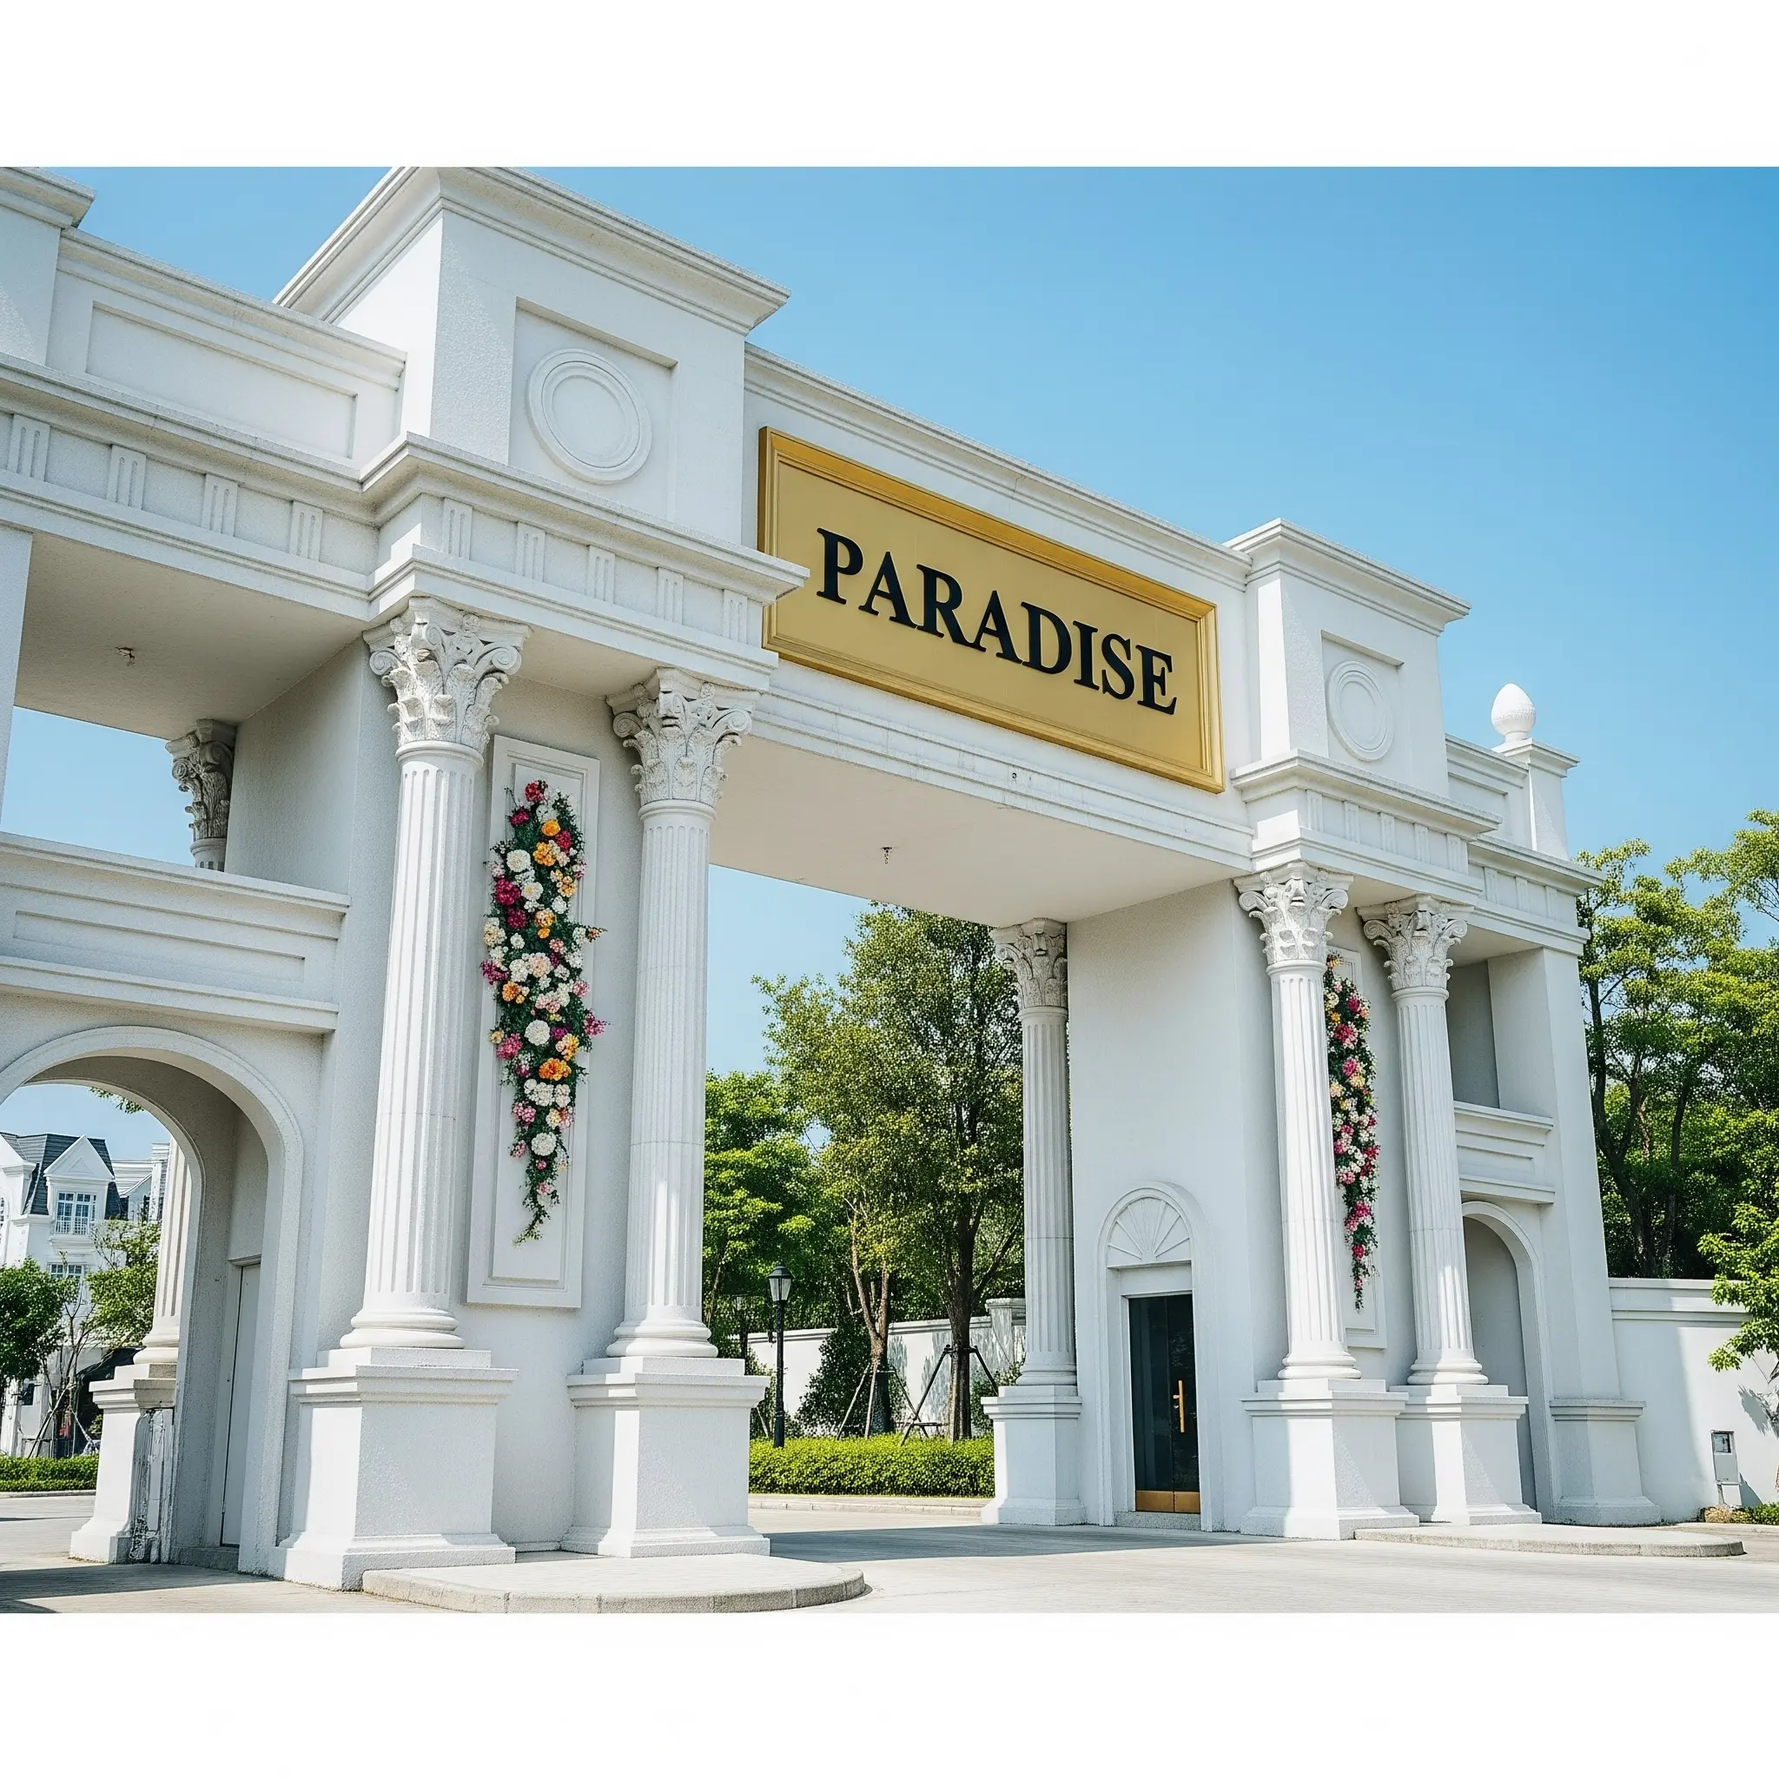
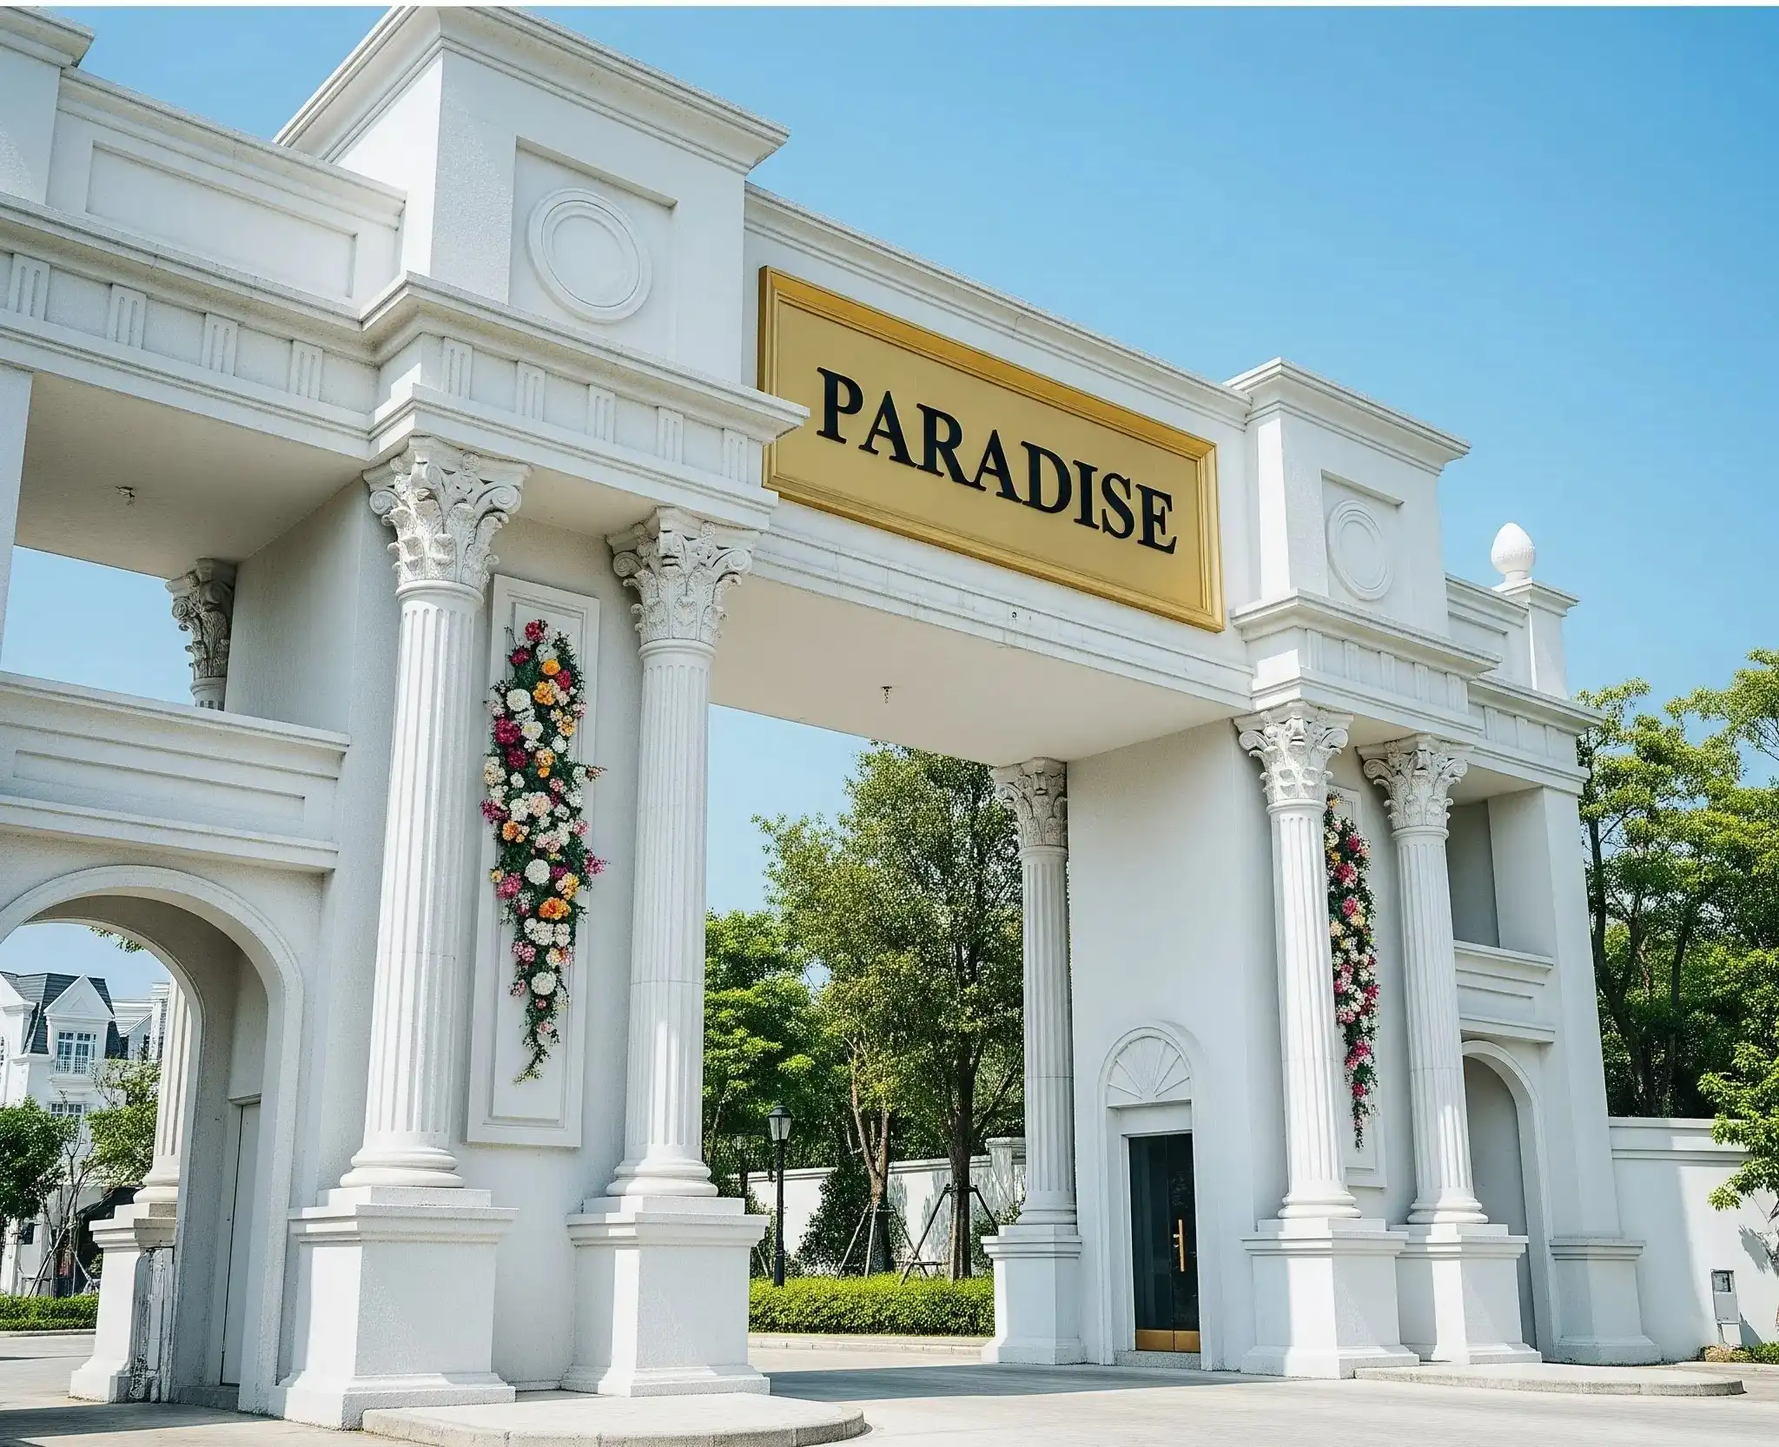
Optimised Website

diff --git a/components/InvestorCompanies.jsx b/components/InvestorCompanies.jsx
@@ -8,7 +8,7 @@ import { useState } from 'react';
 const investorData = [
   {
     name: "Tata Power",
-    logo: "/images/investors/tata-power.png",
+    logo: "/images/investors/tata-power.webp",
     project: "Renewable Energy Infrastructure",
     description:
       "Tata Power is building solar infrastructure and smart energy systems to power Dholera’s clean future.",
@@ -16,7 +16,7 @@ const investorData = [
   },
   {
     name: "ReNew Power",
-    logo: "/images/investors/renew.png",
+    logo: "/images/investors/renew.webp",
     project: "Mega Solar Park",
     description:
       "ReNew is creating a massive solar park, contributing to India’s renewable energy goals from Dholera.",
@@ -24,7 +24,7 @@ const investorData = [
   },
   {
     name: "Airbus",
-    logo: "/images/investors/airbus.png",
+    logo: "/images/investors/airbus.webp",
     project: "Aerospace Manufacturing Hub",
     description:
       "Airbus plans to collaborate in building advanced aerospace manufacturing facilities in Dholera.",
@@ -32,7 +32,7 @@ const investorData = [
   },
   {
     name: "Boeing",
-    logo: "/images/investors/boeing.png",
+    logo: "/images/investors/boeing.webp",
     project: "Defense & Aviation Tech Plant",
     description:
       "Boeing is planning a defense and aviation component unit within Dholera SIR’s industrial zones.",
@@ -40,7 +40,7 @@ const investorData = [
   },
   {
     name: "Adani Group",
-    logo: "/images/investors/adani.png",
+    logo: "/images/investors/adani.webp",
     project: "Smart Infrastructure & Logistics",
     description:
       "Adani Group is developing smart grid logistics and infrastructure within Dholera’s industrial corridors.",
@@ -48,7 +48,7 @@ const investorData = [
   },
   {
     name: "Torrent Power",
-    logo: "/images/investors/torrent.png",
+    logo: "/images/investors/torrent.webp",
     project: "Smart Grid Power Supply",
     description:
       "Torrent Power is deploying modern power distribution and smart grids to serve Dholera’s industry.",
@@ -56,7 +56,7 @@ const investorData = [
   },
   {
     name: "Rafael",
-    logo: "/images/investors/rafael.png",
+    logo: "/images/investors/rafael.webp",
     project: "Defense R&D Facility",
     description:
       "Rafael is planning an R&D and production unit for defense electronics in the Dholera defense corridor.",
@@ -64,7 +64,7 @@ const investorData = [
   },
   {
     name: "Essar",
-    logo: "/images/investors/essar.png",
+    logo: "/images/investors/essar.webp",
     project: "Green Hydrogen & Energy Hub",
     description:
       "Essar is investing in green hydrogen and energy storage solutions in Dholera SIR.",
@@ -72,7 +72,7 @@ const investorData = [
   },
   {
     name: "Nayara Energy",
-    logo: "/images/investors/nayara.png",
+    logo: "/images/investors/nayara.webp",
     project: "Clean Fuel Tech Plant",
     description:
       "Nayara is setting up clean fuel refining units aligned with Dholera’s industrial innovation goals.",
@@ -80,7 +80,7 @@ const investorData = [
   },
   {
     name: "Aditya Birla Group",
-    logo: "/images/investors/birla.png",
+    logo: "/images/investors/birla.webp",
     project: "Smart Materials & Industrial Chemicals",
     description:
       "Aditya Birla Group is investing in sustainable chemical manufacturing in Dholera industrial zones.",

diff --git a/pages/gallery.js b/pages/gallery.js
@@ -17,12 +17,12 @@ const projects = [
   {
     name: "Paradise 2",
     slug: "paradise-2",
-    images: ["/images/paradise2-1.png", "/images/paradise2-2.png"],
+    images: ["/images/paradise2-1.webp", "/images/paradise2-2.webp"],
   },
   {
     name: "Orchid Township",
     slug: "orchid-township",
-    images: ["/images/orchid.png", "/images/orchid2.png"],
+    images: ["/images/orchid.webp", "/images/orchid2.webp"],
   },
   {
     name: "Paradise",
@@ -32,20 +32,20 @@ const projects = [
   {
     name: "Maple",
     slug: "maple",
-    images: ["/images/maple.png", "/images/maple2.png"],
+    images: ["/images/maple.webp", "/images/maple2.webp"],
   },
   {
     name: "Marina Bay",
     slug: "marina-bay",
-    images: ["/images/marina-bay.png", "/images/marina-bay2.png"],
+    images: ["/images/marina-bay.webp", "/images/marina-bay2.webp"],
   },
   {
     name: "WestWyn County",
     slug: "westwyn-county",
     images: [
-      "/images/westwyn-banner.jpg",
-      "/images/westwyngate.png",
-      "/images/westwynmap.png",
+      "/images/westwyn-banner.webp",
+      "/images/westwyngate.webp",
+      "/images/westwynmap.webp",
     ],
   },
 ];
@@ -57,7 +57,8 @@ export default function Gallery() {
     <>
       <Head>
         <title>
-          Dholera Project Gallery | Smart City Images & Investment Plots in Gujarat
+          Dholera Project Gallery | Smart City Images & Investment Plots in
+          Gujarat
         </title>
 
         <meta
@@ -86,10 +87,7 @@ export default function Gallery() {
           content="https://dholeragujarat.in/images/dholera-projects-image.jpg"
         />
         <meta property="og:type" content="website" />
-        <meta
-          property="og:url"
-          content="https://dholeragujarat.in/gallery"
-        />
+        <meta property="og:url" content="https://dholeragujarat.in/gallery" />
 
         {/* Twitter */}
         <meta name="twitter:card" content="summary_large_image" />

diff --git a/pages/index.js b/pages/index.js
@@ -37,7 +37,7 @@ export default function Home() {
         />
         <meta
           name="keywords"
-          content="Dholera,Dholera SIR,dholera sir,dholera sir gujarat,dholera,Dholera Smart City,Plots in Dholera,Properties in Dholera,Dholera Real Estate,Dholera Investment,Dholera Projects,Dholera Gujarat,dholera plots,plots in dholera,dholera properties,dholera smart city,dholera real estate,dholera investment,dholera projects,dholera gujarat,dholera real estate projects,dholera smart city projects,dholera residential plots,dholera commercial plots,dholera property listings,dholeragujarat,best property dealer in dholera,best real estate agent in dholera,dholera best properties,dholera smart city property,dholera smart city plots,best plots in dholera,best properties in dholera,dholera smart city investment,dholera smart city news,dholera development news,dholera smart city updates"
+          content="Dholera,Dholera SIR,dholera sir,dholera sir gujarat,dholera,Dholera Smart City,Plots in Dholera,Properties in Dholera,Dholera Real Estate,Dholera Investment,Dholera Projects,Dholera Gujarat,dholera plots,plots in dholera,dholera properties,dholera smart city,dholera real estate,dholera investment,dholera projects,dholera gujarat,dholera real estate projects,dholera smart city projects,dholera residential plots,dholera commercial plots,dholera property listings,dholeragujarat,best property dealer in dholera,best real estate agent in dholera,dholera best properties,dholera smart city property,dholera smart city plots,best plots in dholera,best properties in dholera,dholera smart city investment,dholera smart city news,dholera development news,dholera smart city updates,dholera smart city plot price"
         />
         <meta name="viewport" content="width=device-width, initial-scale=1" />
         <meta

diff --git a/pages/blog/top-real-estate-projects.js b/pages/blog/top-real-estate-projects.js
@@ -51,28 +51,28 @@ export default function TopRealEstateProjects() {
                 status: 'Available',
                 description:
                   'Premium township located in TP2 Residential Zone, offering ready-to-invest plots with top-notch infrastructure.',
-                image: '/images/westwyn-banner.jpg',
+                image: '/images/westwyn-banner.webp',
               },
               {
                 name: 'Orchid Township',
                 status: 'Sold Out',
                 description:
                   'Located in the heart of Dholera’s development zone, Orchid Township offered high ROI for early investors.',
-                image: '/images/dholera-projects-image.jpg',
+                image: '/images/dholera-projects-image.webp',
               },
               {
                 name: 'Paradise 2',
                 status: 'Sold Out',
                 description:
                   'Phase 2 of the Paradise project, this development focused on sustainable and affordable living for modern families.',
-                image: '/images/dholera-projects-image.jpg',
+                image: '/images/dholera-projects-image.webp',
               },
               {
                 name: 'Marina Bay',
                 status: 'Sold Out',
                 description:
                   'Inspired by global waterfronts, Marina Bay was a themed township with a unique layout and green corridors.',
-                image: '/images/dholera-projects-image.jpg',
+                image: '/images/dholera-projects-image.webp',
               },
             ].map((project, i) => (
               <div key={i} className="bg-white rounded-xl shadow-md overflow-hidden">

diff --git a/pages/projects/[slug].js b/pages/projects/[slug].js
@@ -19,7 +19,7 @@ const projects = [
       "Varied Plot Sizes",
       "Well-Planned Infrastructure",
     ],
-    image: "/images/dholera-projects-image.jpg",
+    image: "/images/dholera-projects-image.webp",
   },
   {
     name: "Orchid Township",
@@ -32,7 +32,7 @@ const projects = [
       "Varied Plot Sizes",
       "Well-Planned Infrastructure",
     ],
-    image: "/images/dholera-projects-image.jpg",
+    image: "/images/dholera-projects-image.webp",
   },
   {
     name: "Paradise",
@@ -45,7 +45,7 @@ const projects = [
       "Modern Amenities",
       "High Investment Potential",
     ],
-    image: "/images/dholera-projects-image.jpg",
+    image: "/images/dholera-projects-image.webp",
   },
   {
     name: "Maple",
@@ -58,7 +58,7 @@ const projects = [
       "Modern Amenities",
       "High Investment Potential",
     ],
-    image: "/images/dholera-projects-image.jpg",
+    image: "/images/dholera-projects-image.webp",
   },
   {
     name: "Marina Bay",
@@ -71,7 +71,7 @@ const projects = [
       "Modern Amenities",
       "High Investment Potential",
     ],
-    image: "/images/dholera-projects-image.jpg",
+    image: "/images/dholera-projects-image.webp",
   },
   {
     name: "WestWyn County",
@@ -86,7 +86,7 @@ const projects = [
       "EV charging points and solar-ready design",
       "24x7 gated security and smart app-based management",
     ],
-    image: "/images/westwyn-banner.jpg",
+    image: "/images/westwyn-banner.webp",
   },
 ];
 

diff --git a/pages/about.js b/pages/about.js
@@ -18,7 +18,7 @@ export default function About() {
         />
         <meta
           name="keywords"
-          content="Dholera Smart City, Dholera SIR, Dholera Gujarat, Dholera real estate, smart city Gujarat, investment in Dholera, Dholera property, Dholera plots, Dholera commercial property, Dholera residential projects"
+          content="Dholera Smart City,about dholera smart city,about dholera,dholera smart city,Dholera SIR,Dholera Gujarat,Dholera real estate,smart city Gujarat,investment in Dholera,Dholera property,Dholera plots,Dholera commercial property,Dholera residential projects"
         />
         <meta name="author" content="DholeraGujarat.in" />
         <meta name="viewport" content="width=device-width, initial-scale=1" />
@@ -30,7 +30,7 @@ export default function About() {
           property="og:description"
           content="Explore Dholera Smart City and discover investment opportunities, smart infrastructure, and future-ready real estate developments in Gujarat."
         />
-        <meta property="og:image" content="/images/dholera-og.jpg" />
+        <meta property="og:image" content="/images/dholera-og.webp" />
         <meta property="og:url" content="https://dholeragujarat.in/about" />
         <meta name="twitter:card" content="summary_large_image" />
         <link rel="canonical" href="https://dholeragujarat.in/about" />

diff --git a/components/HeroSlider.jsx b/components/HeroSlider.jsx
@@ -14,7 +14,7 @@ const slides = [
     subtitle: 'Welcome to DholeraGujarat.in',
     text: 'Explore premium plots and properties in Dholera Smart City — crafted with care, delivered with precision.',
     alt: 'Aerial view of plots and properties in Dholera Smart City',
-    blur: '/images/slider/blur/slider1-blur.jpg',
+    blur: '/images/slider/blur/slider1-blur.webp',
   },
   {
     image: '/images/slider/westwyngate.webp',
@@ -22,7 +22,7 @@ const slides = [
     subtitle: 'Welcome to DholeraGujarat.in',
     text: 'Buy residential and commercial plots in Westwyn Gate – inspiring investment in Dholera real estate.',
     alt: 'Clubhouse at Westwyn Gate, a real estate project in Dholera',
-    blur: '/images/slider/blur/westwyngate-blur.jpg',
+    blur: '/images/slider/blur/westwyngate-blur.webp',
   },
   {
     image: '/images/slider/paradise2.webp',
@@ -30,7 +30,7 @@ const slides = [
     subtitle: 'Welcome to DholeraGujarat.in',
     text: 'Discover Paradise 2 – one of the top Dholera real estate projects for smart investors.',
     alt: 'Paradise 2 gated entry – top smart city property in Dholera',
-    blur: '/images/slider/blur/paradise2-blur.jpg',
+    blur: '/images/slider/blur/paradise2-blur.webp',
   },
 ];
 

diff --git a/pages/_app.js b/pages/_app.js
@@ -45,7 +45,7 @@ export default function App({ Component, pageProps }) {
         />
         <meta property="og:url" content={canonicalUrl} />
         <meta property="og:type" content="website" />
-        <meta property="og:image" content="https://dholeragujarat.in/images/dholera-og.jpg" />
+        <meta property="og:image" content="https://dholeragujarat.in/images/dholera-og.webp" />
 
         {/* Twitter Meta */}
         <meta name="twitter:card" content="summary_large_image" />
@@ -54,7 +54,7 @@ export default function App({ Component, pageProps }) {
           name="twitter:description"
           content="Dholera Smart City: Invest in your future with the best residential & commercial plots in Gujarat."
         />
-        <meta name="twitter:image" content="https://dholeragujarat.in/images/dholera-og.jpg" />
+        <meta name="twitter:image" content="https://dholeragujarat.in/images/dholera-og.webp" />
       </Head>
 
       <Component {...pageProps} />

diff --git a/pages/blog/dholera-smart-city.js b/pages/blog/dholera-smart-city.js
@@ -10,7 +10,7 @@ export default function DholeraSmartCity() {
       title="Why Dholera is India's Smart City of the Future"
       date="June 10, 2025"
       description="Discover why Dholera is India's most promising smart city with futuristic infrastructure, booming industries, and high-return real estate investments."
-      image="/images/blog/dholera smart city.png"
+      image="/images/blog/dholera smart city.webp"
       tags={["Smart City", "Investment", "Gujarat", "Real Estate", "Dholera"]}
     >
       {/* Share Button */}
@@ -219,7 +219,7 @@ export default function DholeraSmartCity() {
       {/* <div className="flex items-center p-6 bg-gray-50 rounded-xl mb-16">
         <div className="w-16 h-16 rounded-full bg-gray-300 mr-4 overflow-hidden">
           <Image 
-            src="/author-placeholder.jpg" 
+            src="/author-placeholder.webp" 
             width={64} 
             height={64} 
             alt="Author" 

diff --git a/pages/blog.js b/pages/blog.js
@@ -11,7 +11,7 @@ const blogPosts = [
     slug: "dholera-land-price-surge",
     excerpt:
       "Times of India reports 10-fold surge in land prices in Dholera SIR—here’s what’s fueling this growth.",
-    image: "/images/blog/blog4.jpeg",
+    image: "/images/blog/blog4.webp",
     date: "June 24, 2025",
     author: "Admin",
   },
@@ -38,7 +38,7 @@ const blogPosts = [
     slug: "dholera-sir-economy",
     excerpt:
       "Learn how Dholera’s Special Investment Region is becoming a major industrial and tech hub in India.",
-    image: "/images/blog/blog3.jpg",
+    image: "/images/blog/blog3.webp",
     date: "June 1, 2025",
     author: "Admin",
   },

diff --git a/pages/blog/dholera-land-price-surge.js b/pages/blog/dholera-land-price-surge.js
@@ -6,7 +6,7 @@ export default function DholeraLandPriceSurge() {
       title="Dholera Land Prices Jump 10x in a Decade"
       date="June 24, 2025 • Admin"
       description="Land rates in Dholera have surged over 10x in 10 years. Explore the key infrastructure projects behind this explosive growth in India’s first smart city."
-      image="/images/blog/blog4.jpeg"
+      image="/images/blog/blog4.webp"
       tags={["DholeraSmartCity", "DholeraInvestment", "LandPriceSurge"]}
     >
       <p>

diff --git a/pages/blog/dholera-infra-investment-2025.js b/pages/blog/dholera-infra-investment-2025.js
@@ -6,7 +6,7 @@ export default function DholeraInfraInvestment2025() {
   const date = "June 24, 2025 • Admin";
   const description =
     "Dholera's infrastructure boom is attracting investors in 2025. Learn about the key projects, government initiatives, and why now is the time to invest.";
-  const image = "/images/blog/dholera city infra.png";
+  const image = "/images/blog/dholera city infra.webp";
   const tags = [
     "DholeraInvestment2025",
     "InfrastructureBoom",
